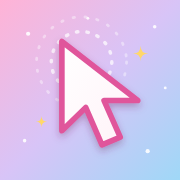
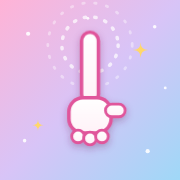
F2-52: wizard de etapas na config + icone dedinho
Tela de configuracao agora e um wizard passo a passo:
- Tipo/variante (condicional) -> Nivel -> Rodadas + Comecar
- Step dots no header, voltar navega entre passos
- Botao voltar do Android tambem respeita as etapas

Icone do app trocado: seta de mouse -> dedinho apontando
(combina com "Dedinho Esperto"). SVG + PNGs regenerados.

SW bumpado para v16.

diff --git a/index.html b/index.html
@@ -143,54 +143,58 @@
             <div class="config-header">
                 <button id="config-back-btn" class="chip-btn">← Voltar</button>
                 <h1 id="config-title" class="config-title">🔷 Formas</h1>
+                <div id="step-dots" class="step-dots"></div>
             </div>
 
-            <!-- Escolha extra: aparece só para Inglês (tipo), Matemática (operação) e Treino do mouse -->
-            <div id="panel-sub" class="panel" hidden>
-                <h2 class="panel-title"><span id="sub-title">Que tipo?</span>
-                    <button id="sub-listen" class="listen-btn" data-say="" aria-label="Ouvir">🔊</button>
-                </h2>
-                <div id="sub-grid" class="choice-grid" role="radiogroup" aria-label="Tipo de pergunta"></div>
-            </div>
-
-            <!-- Só aparece em Matemática > Multiplicar (tabuada) ou Treino do mouse > Traçar
-                 (conjunto de caracteres) — título e grid reconstruídos por menu.js conforme o caso -->
-            <div id="panel-extra" class="panel" hidden>
-                <h2 class="panel-title"><span id="extra-title">Qual tabuada?</span>
-                    <button id="extra-listen" class="listen-btn" data-say="Escolha uma tabuada para treinar, ou todas misturadas" aria-label="Ouvir: qual tabuada">🔊</button>
-                </h2>
-                <div id="extra-grid" class="choice-grid choice-grid--4" role="radiogroup" aria-label="Opções extras"></div>
-            </div>
-
-            <div class="panel">
-                <h2 class="panel-title">Nível
-                    <button class="listen-btn" data-say="Escolha o nível de dificuldade" aria-label="Ouvir: escolha o nível">🔊</button>
-                </h2>
-                <div id="difficulty-grid" class="choice-grid choice-grid--3" role="radiogroup" aria-label="Nível"></div>
-            </div>
-
-            <div class="panel">
-                <h2 class="panel-title"><span id="count-title">Quantas perguntas?</span>
-                    <button id="count-listen" class="listen-btn" data-say="Quantas perguntas você quer responder?" aria-label="Ouvir: quantas perguntas">🔊</button>
-                </h2>
-                <div id="count-grid" class="choice-grid choice-grid--4" role="radiogroup" aria-label="Número de perguntas"></div>
-                <div class="custom-count">
-                    <label for="custom-count-input">Outro número:</label>
-                    <input id="custom-count-input" type="number" min="1" max="99" inputmode="numeric" placeholder="ex: 15">
+            <!-- PASSO: tipo/variante (só categorias com sub-options) -->
+            <div class="config-step" data-step="sub" hidden>
+                <div id="panel-sub" class="panel">
+                    <h2 class="panel-title"><span id="sub-title">Que tipo?</span>
+                        <button id="sub-listen" class="listen-btn" data-say="" aria-label="Ouvir">🔊</button>
+                    </h2>
+                    <div id="sub-grid" class="choice-grid" role="radiogroup" aria-label="Tipo de pergunta"></div>
+                </div>
+                <div id="panel-extra" class="panel" hidden>
+                    <h2 class="panel-title"><span id="extra-title">Qual tabuada?</span>
+                        <button id="extra-listen" class="listen-btn" data-say="Escolha uma tabuada para treinar, ou todas misturadas" aria-label="Ouvir: qual tabuada">🔊</button>
+                    </h2>
+                    <div id="extra-grid" class="choice-grid choice-grid--4" role="radiogroup" aria-label="Opções extras"></div>
                 </div>
             </div>
 
-            <!-- Só aparece para Formas, Cores e Animais (arrastar não existe nos outros jogos) -->
-            <div id="panel-mode" class="panel">
-                <h2 class="panel-title">Como jogar?
-                    <button class="listen-btn" data-say="Como você quer jogar? Clicar ou arrastar?" aria-label="Ouvir: como jogar">🔊</button>
-                </h2>
-                <div id="mode-grid" class="choice-grid choice-grid--2" role="radiogroup" aria-label="Modo de jogo"></div>
+            <!-- PASSO: nível -->
+            <div class="config-step" data-step="level" hidden>
+                <div class="panel">
+                    <h2 class="panel-title">Nível
+                        <button class="listen-btn" data-say="Escolha o nível de dificuldade" aria-label="Ouvir: escolha o nível">🔊</button>
+                    </h2>
+                    <div id="difficulty-grid" class="choice-grid choice-grid--3" role="radiogroup" aria-label="Nível"></div>
+                </div>
             </div>
 
-            <!-- Faixa flutuante na largura da janela; o botão fica no canto direito (na margem, fora do conteúdo) -->
+            <!-- PASSO: rodadas + modo -->
+            <div class="config-step" data-step="rounds" hidden>
+                <div class="panel">
+                    <h2 class="panel-title"><span id="count-title">Quantas perguntas?</span>
+                        <button id="count-listen" class="listen-btn" data-say="Quantas perguntas você quer responder?" aria-label="Ouvir: quantas perguntas">🔊</button>
+                    </h2>
+                    <div id="count-grid" class="choice-grid choice-grid--4" role="radiogroup" aria-label="Número de perguntas"></div>
+                    <div class="custom-count">
+                        <label for="custom-count-input">Outro número:</label>
+                        <input id="custom-count-input" type="number" min="1" max="99" inputmode="numeric" placeholder="ex: 15">
+                    </div>
+                </div>
+                <div id="panel-mode" class="panel">
+                    <h2 class="panel-title">Como jogar?
+                        <button class="listen-btn" data-say="Como você quer jogar? Clicar ou arrastar?" aria-label="Ouvir: como jogar">🔊</button>
+                    </h2>
+                    <div id="mode-grid" class="choice-grid choice-grid--2" role="radiogroup" aria-label="Modo de jogo"></div>
+                </div>
+            </div>
+
             <div class="start-dock">
-                <button id="start-btn" class="big-btn">Começar! ▶</button>
+                <button id="next-step-btn" class="big-btn" hidden>Próximo →</button>
+                <button id="start-btn" class="big-btn" hidden>Começar! ▶</button>
             </div>
         </section>
 

diff --git a/menu.js b/menu.js
@@ -47,7 +47,6 @@ function refreshModePanel() {
 // Mostra a escolha extra (tipo de inglês / operação) só quando faz sentido.
 function refreshSubPanel() {
     const cfg = SUB_OPTIONS[state.category];
-    el.panelSub.hidden = !cfg;
     if (!cfg) return;
 
     const isMouse = state.category === 'mouse';
@@ -134,6 +133,60 @@ function refreshMenuForCategory() {
     refreshExtraPanel();
 }
 
+/* ---------- Wizard de etapas (F2-52) ---------- */
+let configSteps = [];
+let configStepIdx = 0;
+const stepEls = {
+    sub:    document.querySelector('.config-step[data-step="sub"]'),
+    level:  document.querySelector('.config-step[data-step="level"]'),
+    rounds: document.querySelector('.config-step[data-step="rounds"]'),
+};
+
+function buildConfigSteps() {
+    configSteps = [];
+    if (SUB_OPTIONS[state.category]) configSteps.push('sub');
+    configSteps.push('level', 'rounds');
+    configStepIdx = 0;
+
+    el.stepDots.innerHTML = configSteps
+        .map((_, i) => `<span class="step-dot${i === 0 ? ' is-active' : ''}"></span>`)
+        .join('');
+}
+
+function showConfigStep() {
+    const step = configSteps[configStepIdx];
+    Object.values(stepEls).forEach((s) => { s.hidden = true; });
+    stepEls[step].hidden = false;
+
+    el.stepDots.querySelectorAll('.step-dot').forEach((d, i) => {
+        d.classList.toggle('is-active', i === configStepIdx);
+        d.classList.toggle('is-done', i < configStepIdx);
+    });
+
+    const isLast = configStepIdx === configSteps.length - 1;
+    el.nextStepBtn.hidden = isLast;
+    el.startBtn.hidden = !isLast;
+    window.scrollTo({ top: 0, behavior: 'smooth' });
+}
+
+function nextConfigStep() {
+    if (configStepIdx < configSteps.length - 1) {
+        configStepIdx++;
+        showConfigStep();
+    }
+}
+
+function prevConfigStep() {
+    if (configStepIdx > 0) {
+        configStepIdx--;
+        showConfigStep();
+        return true;
+    }
+    return false;
+}
+
+el.nextStepBtn.addEventListener('click', nextConfigStep);
+
 function buildMenu() {
     CATEGORY_META.forEach((c, i) => {
         const label = c.id === 'mouse' ? term(c.label) : c.label;
@@ -148,6 +201,8 @@ function buildMenu() {
                 if (v === 'pintura') { openDrawScreen(); return; }
                 if (v === 'mimica') { openMimicaScreen(); return; }
                 refreshMenuForCategory();
+                buildConfigSteps();
+                showConfigStep();
                 el.configTitle.textContent = `${emoji} ${title}`;
                 showScreen('config');
             }, i === 0);

diff --git a/styles.css b/styles.css
@@ -374,7 +374,7 @@ body.is-drawing #screen-draw.is-active { display: flex; flex-direction: column; 
     justify-content: flex-end;
     pointer-events: none;      /* a faixa não bloqueia cliques; só o botão */
 }
-#start-btn {
+#start-btn, #next-step-btn {
     pointer-events: auto;
     width: auto;
     max-width: none;
@@ -636,6 +636,14 @@ body.is-drawing #screen-draw.is-active { display: flex; flex-direction: column; 
     font-size: clamp(1.3rem, 5vw, 2.1rem);
     text-shadow: 0 2px 12px rgba(255, 255, 255, 0.65);
 }
+.step-dots { display: flex; gap: 8px; margin-left: auto; }
+.step-dot {
+    width: 12px; height: 12px; border-radius: 50%;
+    background: var(--accent); opacity: 0.3;
+    transition: opacity 0.3s, transform 0.3s;
+}
+.step-dot.is-active { opacity: 1; transform: scale(1.25); }
+.step-dot.is-done { opacity: 0.7; }
 .profile-badge { font-weight: 700; font-size: 1.1rem; display: flex; align-items: center; gap: 6px; }
 .profile-badge #pb-avatar { font-size: 1.5rem; }
 .profile-stars { color: var(--ink-soft); font-weight: 600; }

diff --git a/script.js b/script.js
@@ -573,7 +573,7 @@ el.switcherAutoread.addEventListener('change', () => {
     state.profile.autoRead = el.switcherAutoread.checked;
     saveProfiles(profiles);
 });
-el.configBackBtn.addEventListener('click', () => showScreen('menu'));
+el.configBackBtn.addEventListener('click', () => { if (!prevConfigStep()) showScreen('menu'); });
 
 // F2-45: idem — createProfile só existe depois que profiles.js carrega.
 el.createConfirm.addEventListener('click', () => createProfile());

diff --git a/screens.js b/screens.js
@@ -29,7 +29,7 @@ let handlingPopstate = false;
 
 const BACK_ACTION = {
     menu:    () => { stopPlaytimeTracking(); renderProfiles(); showScreen('profiles'); },
-    config:  () => showScreen('menu'),
+    config:  () => { if (!prevConfigStep()) showScreen('menu'); },
     game:    () => showResults(),
     draw:    () => showScreen('menu'),
     mimica:  () => showScreen('menu'),

diff --git a/sw.js b/sw.js
@@ -19,7 +19,7 @@
      cache na hora, sem esperar a checagem periódica).
    ============================================================ */
 
-const VERSION = 'v15';
+const VERSION = 'v16';
 const CACHE = 'dedinho-esperto-' + VERSION;
 const CHECK_INTERVAL_MS = 24 * 60 * 60 * 1000; // não verifica de novo antes de 1 dia
 const LAST_CHECK_KEY = new Request('__sw-last-check__');

diff --git a/dom.js b/dom.js
@@ -67,6 +67,8 @@ const el = {
     panelMode: $('#panel-mode'),
     modeGrid: $('#mode-grid'),
     customCount: $('#custom-count-input'),
+    stepDots: $('#step-dots'),
+    nextStepBtn: $('#next-step-btn'),
     startBtn: $('#start-btn'),
     // pintura livre (F2-21)
     drawPalette: $('#draw-palette'),
